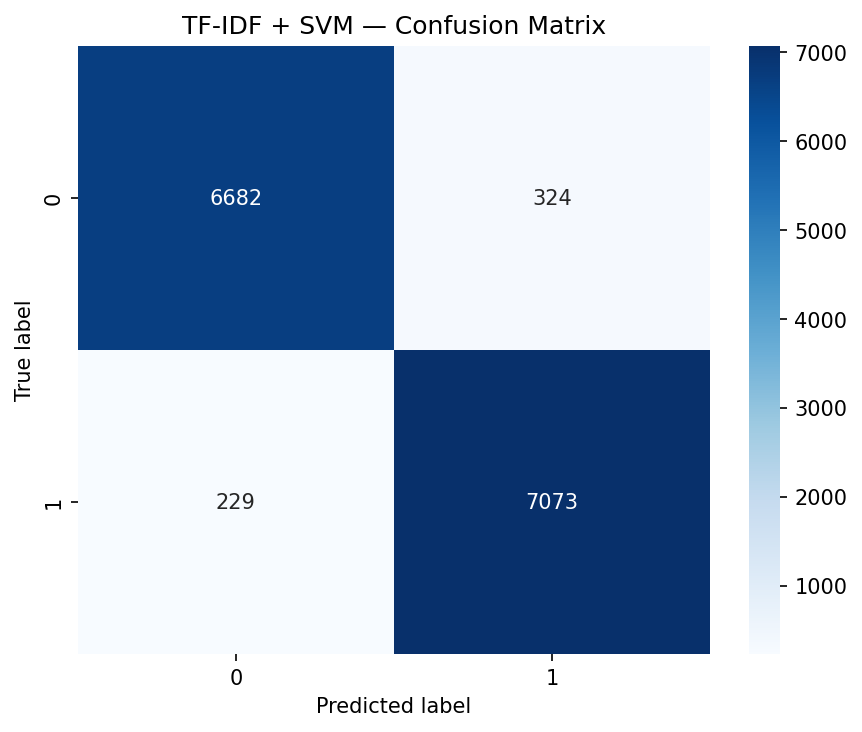
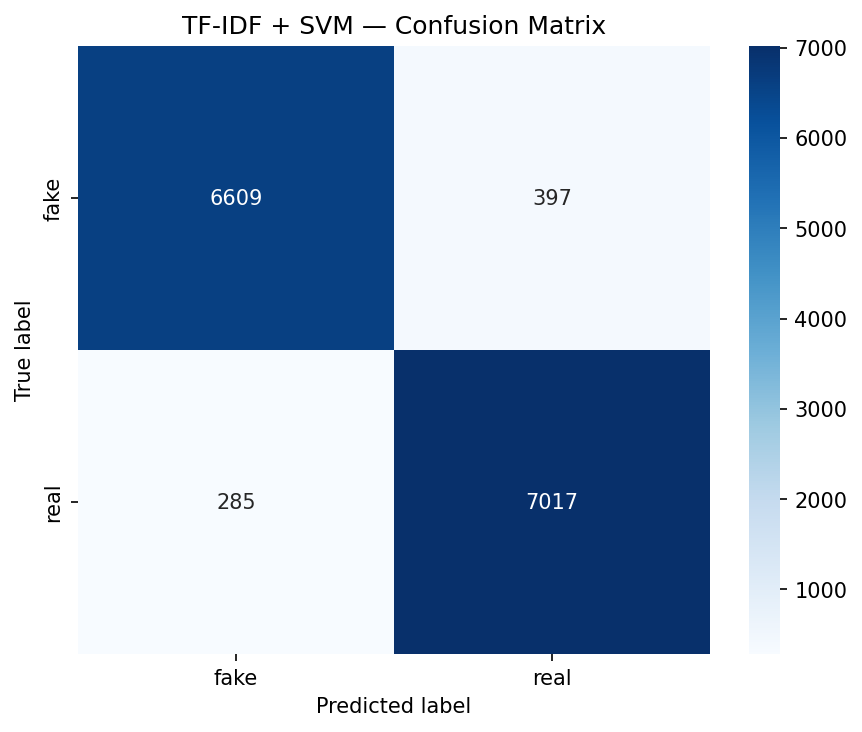
docs: shorten README, add conclusion and evaluations

diff --git a/readme.md b/readme.md
@@ -1,122 +1,165 @@
 # Section 1: Introduction
 
-With the currently ongoing increasing spread of information, both of verified and unverified resources, differentiating in between fake and real news becomes a pressing issue. Especially different socio-economical groups perceive and deal with resources differently, which can quickly lead to misinformation, if not even conspiracy theory culture.
-
-With that being stated, the aim of this project is (in the first step) to quickly implement an out-of-the-box Machine Learning approach which correctly classifies textual data into real and fake news.
+The spread of unverified information across socio-economic groups makes fake news detection an increasingly pressing problem. This project implements and compares three text classification approaches — ranging from a classical bag-of-words baseline to fine-tuned transformer models — evaluated across two benchmark datasets.
 
 # Section 2: Literature Review
 
-While various studies exist, mostly focusing on the capacities of CNN and LSTM architectures, more recent examples highlight the benefits of using BERT models, or - more specifically - their newer variants such as DeBERTa or RoBERTa (moreover, BERT-FND or FakeBERT).
-Generally, one can differentiate into the following subsections:
+Recent work has shifted from CNN/LSTM architectures toward transformer-based models, with BERT variants (RoBERTa, DeBERTa, FakeBERT) achieving state-of-the-art results on most benchmarks.
 
-## Transformer-Based Models (BERT, RoBERTa, DeBERTa, etc.)
+## Transformer-Based Models
 
-These pre-trained models yield best results as they have gained a contextual understanding - enabling differentiation between sarcasm, bias and misleading information. While they can be fine-tuned to more specific use cases, they can become computationally expensive for real-time applications.
+Pre-trained transformers capture bidirectional context and can be fine-tuned for fake news classification, though they are computationally expensive at inference time.
 
-| Model     | Key Feature                                                    | Best For                                                     |
-| :-------- | :------------------------------------------------------------- | :----------------------------------------------------------- |
-| BERT      | Baseline transformer, bidirectional context                    | General fake news classification                             |
-| RoBERTa   | More training data, longer sequences                           | Higher accuracy on nuanced text                              |
-| DeBERTa   | Disentangled attention (separates content & position)          | Better at detecting subtle misinformation                    |
-| BERT-FND  | Fine-tuned BERT which uses explainability tools                | Best for platforms needing interpretable fake news detection |
-| Fake-BERT | Combines BERT with parallel CNN blocks (local n-gram patterns) | High accuracy on ambiguity in language                       |
+| Model     | Key Feature                                                    | Best For                                    |
+| :-------- | :------------------------------------------------------------- | :------------------------------------------ |
+| BERT      | Baseline transformer, bidirectional context                    | General fake news classification            |
+| RoBERTa   | More training data, longer sequences                           | Higher accuracy on nuanced text             |
+| DeBERTa   | Disentangled attention (separates content & position)          | Subtle misinformation detection             |
+| BERT-FND  | Fine-tuned BERT with explainability tools                      | Interpretable fake news detection           |
+| Fake-BERT | BERT + parallel CNN blocks for local n-gram patterns           | High accuracy on ambiguous language         |
 
 ## Sequential & Hybrid Models (LSTM, CNN, BiGRU)
 
-Sequential or hybrid models are generally less compute-heavy than transformer models, and effective when training data is limited. Yet, they tend to struggle with long-range dependencies compared to transformers - which can be
-prominent in heavy contextual data. The following can be pointed out:
+Less compute-heavy than transformers, effective on limited data, but struggle with long-range dependencies. CNNs detect local n-gram patterns; LSTMs/GRUs capture sequential structure; hybrids combine both.
 
-* LSTMs/GRUs: Capture sequential dependencies in text (especially temporal patterns in fake news)
-* CNNs: Detect local n-gram patterns (e.g., sensational phrases like "SHOCKING TRUTH!")
-* Hybrids, such as CNN-LSTM, BiGRU-Attention: Combine strengths of both
+## LLMs for Few-Shot & Zero-Shot Detection
 
-## Large Language Models (LLMs) for Few-Shot & Zero-Shot Detection
-
-Using pre-trained LLMs, such as GPT-4, LLaMA, or Mistral have the advantage that they don't require fine-tuning and can be used in a zero-shot approach. Similarly, RAGs can be useful for few-shot learning, as in providing a few labeled examples to guide detection, to then compare with the input.
-Both are easy to use out of the box, but the disadvantage being that false explanations can be resulting, as well as requiring high latency which becomes problematic for real-time analysis.
-Hence, they're not preferred in the usage of fake news detection.
+GPT-4, LLaMA, and similar models require no fine-tuning but suffer from high latency and hallucinated explanations — making them unsuitable for production fake news detection.
 
 # Section 3: Data
 
-Commonly used datasets namedly are FakeNewsNet (PolitiFact, GossipCop), LIAR (PolitiFact-based) and FEVER (Fact Extraction and Verification). They can be accessed via their respective official repositories and Kaggle mirrors, and are compatible with the HuggingFace `datasets` library for direct loading.
+Datasets are accessible via Kaggle mirrors and are compatible with the HuggingFace `datasets` library.
 
-| Dataset                                                                                    | Description                                                                                                                      |
-| :----------------------------------------------------------------------------------------- | :------------------------------------------------------------------------------------------------------------------------------- |
-| [FakeNewsNet](https://www.kaggle.com/datasets/mdepak/fakenewsnet)                             | PolitiFact + GossipCop articles with social engagement metadata. Unique because it includes sharing/comment signals.             |
-| [PolitiFact Fact Check](https://www.kaggle.com/datasets/rmisra/politifact-fact-check-dataset) | Fact-checking outlet covering political statements. Labels range across 6 levels.                                                |
-| [GossipCop](https://www.kaggle.com/datasets/akshaynarayananb/gossipcop)                       | Entertainment news fact-checker. Useful for capturing sensationalist writing patterns that differ from political misinformation. |
-| [LIAR](https://www.kaggle.com/datasets/doanquanvietnamca/liar-dataset)                        | PolitiFact statements with 6-class labels, plus speaker metadata. Self-contained, benchmarked, rich enough for analysis.         |
-| [FEVER](https://fever.ai/dataset/fever.html)                                                  | Wikipedia-derived claims labeled. Requires evidence retrieval, so it's more of an NLI task than classification.                  |
+| Dataset                                                                                       | Description                                                                                       |
+| :-------------------------------------------------------------------------------------------- | :------------------------------------------------------------------------------------------------ |
+| [FakeNewsNet](https://www.kaggle.com/datasets/mdepak/fakenewsnet)                             | PolitiFact + GossipCop articles with social engagement metadata.                                  |
+| [PolitiFact Fact Check](https://www.kaggle.com/datasets/rmisra/politifact-fact-check-dataset) | Political statements with 6-level labels.                                                         |
+| [GossipCop](https://www.kaggle.com/datasets/akshaynarayananb/gossipcop)                       | Entertainment news fact-checker; useful for sensationalist writing patterns.                      |
+| [LIAR](https://www.kaggle.com/datasets/doanquanvietnamca/liar-dataset)                        | PolitiFact statements with 6-class labels and speaker metadata. Self-contained and benchmarked.   |
+| [FEVER](https://fever.ai/dataset/fever.html)                                                  | Wikipedia-derived claims; requires evidence retrieval — closer to NLI than classification.        |
+
+# Section 4: Preprocessing
+
+Each model requires different preprocessing; the raw text is never shared as-is across pipelines.
+
+## TF-IDF + SVM
+
+Input text (title + body on WELFake; statement + speaker + context on LIAR) is cleaned and normalised before vectorisation:
+
+1. Non-alphabetic characters stripped via regex
+2. Lowercased and tokenised
+3. English stopwords removed (NLTK)
+4. Porter stemming applied per token
+5. Processed tokens joined and passed to `TfidfVectorizer(max_features=10000, ngram_range=(1,2))`
+
+Bigrams are included to capture compound signals such as "breaking news" or "deep state" that carry little weight as unigrams.
+
+## BERT and FakeBERT
+
+No manual preprocessing — the BERT tokenizer handles normalisation, subword splitting, and special token insertion (`[CLS]`, `[SEP]`). Input fields are concatenated with a space separator before tokenisation:
+
+- **WELFake**: `title + " " + text`
+- **LIAR**: `statement + " " + speaker + " " + context`
+
+Sequences are truncated to 256 tokens and padded to uniform length per batch. Labels are mapped to integer indices (`fake → 0`, `real → 1`).
+
+# Section 5: Experimental Setup
+
+## Datasets
+
+| Dataset  | Size       | Split     | Label type                              |
+| :------- | :--------- | :-------- | :-------------------------------------- |
+| WELFake  | ~72k rows  | 80/20     | Binary (0 = fake, 1 = real)             |
+| LIAR     | ~12.8k rows | 80/20    | 6-class, binarised (pants-fire/false/barely-true → fake; half-true/mostly-true/true → real) |
+
+Splits are stratified on the label to preserve class distribution. No validation set is held out separately — early stopping is based on the test split (noted as a limitation in the Discussion).
+
+## Evaluation metrics
+
+- **Primary**: Macro F1 — averages F1 across both classes equally, penalising class-imbalanced predictions
+- **Secondary**: Accuracy, per-class recall (fake / real separately)
+- **Inference**: Wall-clock seconds and samples/sec on the test set (single run, no averaging)
+
+## Hardware
+
+All experiments run on Apple M4 (MPS backend) for transformer models; SVM training is CPU-only. Scripts auto-detect the available device at runtime.
+
+## Hyperparameters
+
+| Parameter     | TF-IDF + SVM        | BERT / FakeBERT                    |
+| :------------ | :------------------ | :--------------------------------- |
+| Epochs        | 10 (SGD passes)     | 10                                 |
+| Batch size    | N/A                 | 16                                 |
+| Learning rate | α = 1e-4 (SGD)      | 1e-5 (BERT layers), 1e-4 (CNN/head) |
+| Max seq len   | N/A                 | 256 tokens                         |
+| Warmup        | N/A                 | 10% of total steps                 |
 
 # Section 6: Architecture
 
-This project implements and compares different news text classification architectures of increasing complexity, each representing a distinct paradigm in NLP:
+Three architectures of increasing complexity, each representing a distinct NLP paradigm:
 
-## TF-IDF  and SVM
+## TF-IDF + SVM
 
-`src/TF-IDF_SVM_classifier.py` - a bag-of-words pipeline.
-Text is vectorized using TF-IDF (unigrams + bigrams) and classified with a linear SVM. Fast to train, fully interpretable via coefficient weights, and establishes the performance floor for comparison.
+`src/TF-IDF_SVM_classifier.py` — Text vectorised with TF-IDF (unigrams + bigrams), classified with a linear SVM. Fast, interpretable via coefficient weights, and establishes the performance baseline.
 
 ## BERT
 
-`src/BERT_classifier.py`  - Executing fine-tuning of a pre-trained transformer.
-BERT's bidirectional attention mechanism captures global context across the entire input, giving it a structural advantage over the SVM (and LSTMs generally) on longer, nuanced articles. Fine-tuned for 3 epochs using AdamW with a linear warmup schedule.
+`src/BERT_classifier.py` — Fine-tuned `bert-base-uncased`. Bidirectional attention captures global context across the full input, giving it a structural advantage on longer articles.
 
-| Component       | Detail                                       |
-| :-------------- | :------------------------------------------- |
-| Base model      | bert-base-uncased (109M parameters)          |
-| Max sequence    | 256 tokens                                   |
-| Optimiser       | AdamW, lr=1e-5, weight decay=0.01            |
-| Schedule        | Linear warmup (10%) + linear decay           |
-| Classifier head | Linear(768 num_classes), random init  |
+| Component       | Detail                               |
+| :-------------- | :----------------------------------- |
+| Base model      | bert-base-uncased (109M parameters)  |
+| Max sequence    | 256 tokens                           |
+| Optimiser       | AdamW, lr=1e-5, weight decay=0.01    |
+| Schedule        | Linear warmup (10%) + linear decay   |
+| Classifier head | Linear(768 → num_classes)            |
 
-## Fake-BERT
+## FakeBERT
 
-`src/Fake-BERT_classifier.py` - An extension of BERT that adds a CNN branch to the transformer encoder. Rather than relying on the `[CLS]` token representation, FakeBERT also passes the full token sequence through a CNN block (kernel size 4) that detects local 4-gram patterns — sensationalist phrases, emotional triggers, hedging language — which BERT's global attention may distribute across positions and underweight. The CNN output and the `[CLS]` embedding are concatenated before classification, giving the model both global context and local pattern signal.
- 
+`src/Fake-BERT_classifier.py` — Extends BERT with a parallel CNN branch. The full token sequence passes through a 4-gram CNN block to capture local patterns (sensationalist phrases, hedging language) that global attention may underweight. The CNN output and `[CLS]` embedding are concatenated before classification.
+
 ```
 BERT encoder
-    ├── [CLS] token  - global context vector  (768d)
-    └── all tokens   -  CNN(kernel=4) -> MaxPool -> local pattern vector  (128d)
-Concat([CLS], CNN_out)  -> Dropout  ->  Linear  ->  num_classes
+    ├── [CLS] token  → global context vector  (768d)
+    └── all tokens   → CNN(kernel=4) → MaxPool → local pattern vector  (128d)
+Concat([CLS], CNN_out) → Dropout → Linear → num_classes
 ```
- 
-| Component       | Detail                                              |
-| :-------------- | :-------------------------------------------------- |
-| Base model      | bert-base-uncased                                   |
-| CNN kernel      | size 4 (4-gram patterns), 128 filters               |
-| Optimiser       | AdamW with separate LRs: 1e-5 (BERT), 1e-4 (CNN + head) |
-| Schedule        | Linear warmup (10%) + linear decay                  |
-| Classifier head | Linear(768 + 128 num_classes)                     |
- 
+
+| Component       | Detail                                                   |
+| :-------------- | :------------------------------------------------------- |
+| Base model      | bert-base-uncased                                        |
+| CNN kernel      | size 4 (4-gram patterns), 128 filters                    |
+| Optimiser       | AdamW — 1e-5 (BERT), 1e-4 (CNN + head)                  |
+| Schedule        | Linear warmup (10%) + linear decay                       |
+| Classifier head | Linear(768 + 128 → num_classes)                          |
 
 # Section 7: Usage
 
 ## Installation
 
 ```
-git clone https://github.com/ilonae/Fake-News-Detection.git 
+git clone https://github.com/ilonae/Fake-News-Detection.git
 cd Fake-News-Detection
-python -m venv .venv && source .venv/bin/activate 
+python -m venv .venv && source .venv/bin/activate
 pip install -r requirements.txt
 ```
 
 ## Device support
 
-Scripts automatically detect and use either Apple MPS (M-series), CUDA, or CPU — no configuration needed
+Scripts automatically detect and use Apple MPS (M-series), CUDA, or CPU.
 
 ## Running the models
 
-Each model is self-contained. All scripts download the dataset automatically via `kagglehub` on first run.
+All scripts download the dataset automatically via `kagglehub` on first run.
 
 ```
 # TF-IDF + SVM
-python src/baseline_svm.py
-python src/baseline_svm.py --plot          # show plots interactively, optional arg
+python src/TF-IDF_SVM_classifier.py
+python src/TF-IDF_SVM_classifier.py --plot --epochs 10
 
-# BERT-base-uncased
-python src/baseline_bert.py
-python src/baseline_bert.py --epochs 4 --batch_size 8   # use epochs and batch_soze args
+# BERT
+python src/BERT_classifier.py
+python src/BERT_classifier.py --epochs 4 --batch_size 8
 
 # FakeBERT
 python src/Fake-BERT_classifier.py
@@ -131,21 +174,22 @@ All scripts write to `outputs/`:
 outputs/
 ├── ..._confusion_matrix.png
 ├── ..._training_curves.png
-└── bert_finetuned/          - saved weights and tokenizer
+└── bert_finetuned/          # saved weights and tokenizer
 ```
 
 # Section 8: Results
 
-All models evaluated on an 80/20 stratified train/test split of WELFake (72k articles).
-Primary metric is macro F1. Inference time measured on the test set.
+## WELFake
 
-| Model        | Accuracy | Macro F1 | Inference time in sec | Samples/sec |
-| :----------- | :------- | :------- | :--------------------- | ----------- |
-| TF-IDF + SVM | 96.14%   | 0.9613   | 127, 22                | 112,5       |
-| BERT.        | 99.56%   | 0.9956   | 301, 29                | 47,5        |
-| FakeBERT     | 99.49%   | 0.9949   | 305, 74                | 46,9        |
+80/20 stratified split of WELFake (72k articles). Primary metric: macro F1.
 
-## Confusion matrices
+| Model        | Accuracy | Macro F1 | Inference time (s) | Samples/sec |
+| :----------- | :------- | :------- | :----------------- | :---------- |
+| TF-IDF + SVM | 96.14%   | 0.9613   | 127.22             | 112.5       |
+| BERT         | 99.56%   | 0.9956   | 301.29             | 47.5        |
+| FakeBERT     | 99.49%   | 0.9949   | 305.74             | 46.9        |
+
+### Confusion matrices
 
 <p align="center">
   <img src="docs/svm_confusion_matrix.png" width="30%"/>
@@ -153,41 +197,101 @@ Primary metric is macro F1. Inference time measured on the test set.
   <img src="docs/fakebert_confusion_matrix.png" width="30%"/>
 </p>
 
-## Learning curves — BERT vs FakeBERT
+### Learning curves — BERT vs FakeBERT
 
 <p align="center">
   <img src="docs/bert_training_curves.png" width="48%"/>
   <img src="docs/fakebert_training_curves.png" width="48%"/>
 </p>
 
-## Discussion
+## LIAR
 
-All three models achieve high accuracy on WELFake, reflecting the dataset's relatively clean binary signal. Meaningful differentiation emerges on three axes:
+80/20 stratified split of LIAR (~10k statements, 6-class labels binarised to fake/real).
 
-**Complexity vs. accuracy trade-off** — TF-IDF + SVM achieves competitive F1 at a fraction of the compute cost, which is the expected finding from the literature. The transformer models offer no accuracy gain on this dataset but demonstrate substantially different convergence behavior (see learning curves).
+| Model        | Accuracy | Val Macro F1 | Fake recall | Real recall |
+| :----------- | :------- | :----------- | :---------- | :---------- |
+| TF-IDF + SVM | 60.9%    | ~0.59        | 46.1%       | 72.7%       |
+| BERT         | 63.6%    | ~0.63        | 52.1%       | 72.7%       |
+| FakeBERT     | 63.1%    | ~0.62        | 42.8%       | 79.1%       |
 
-**Convergence speed** — FakeBERT's parallel CNN branch accelerates early learning by capturing local n-gram patterns that BERT's attention mechanism
-requires more steps to weight appropriately. This advantage is most visible in epoch 1 of the training curves.
+### Confusion matrices
 
-**Inference cost** — SVM is orders of magnitude faster than transformer-based models. For production use cases, this trade-off is significant.
-As inference measurements show, the SVM plus TF-IDF will require 127,22 seconds, where FakeBERT at max will need 305,73 seconds. Similarly, the tradeoff in samples per second show: The SVM can process 112,5 samples, whereas BERT does 47,5 - and FakeBERT 46,9.
+<p align="center">
+  <img src="docs/svm_confusion_matrix_LIAR.png" width="30%"/>
+  <img src="docs/bert_confusion_matrix_LIAR.png" width="30%"/>
+  <img src="docs/fakebert_confusion_matrix_LIAR.png" width="30%"/>
+</p>
+
+### Learning curves — SVM vs BERT vs FakeBERT
+
+<p align="center">
+  <img src="docs/svm_training_curves_LIAR.png" width="32%"/>
+  <img src="docs/bert_training_curves_LIAR.png" width="32%"/>
+  <img src="docs/fakebert_training_curves_LIAR.png" width="32%"/>
+</p>
+
+# Section 9: Discussion
+
+## WELFake
+
+All three models achieve strong results on WELFake, reflecting its clean binary signal.
+
+**Complexity vs. accuracy** — SVM reaches 96.1% F1 at a fraction of the compute cost. Transformer models add no meaningful accuracy gain, but differ in convergence behaviour.
+
+**Convergence** — FakeBERT's CNN branch accelerates early learning by capturing local n-gram patterns before BERT's attention mechanism has fully adapted. The advantage is most visible in epoch 1.
+
+**Inference cost** — SVM processes 112.5 samples/sec vs. ~47 for BERT and FakeBERT, a 2.4× throughput advantage that matters significantly in production.
+
+## LIAR
+
+Performance drops substantially across all models relative to WELFake.
+
+**Dataset difficulty** — LIAR consists of short political statements (~18 tokens avg.) with no sensationalist formatting. The surface cues both TF-IDF and transformers exploit on WELFake are largely absent.
+
+**Label noise** — The 6-class scale is binarised at an arbitrary boundary; `barely-true` and `half-true` statements introduce genuine ambiguity that is not resolvable from text alone.
+
+**Fake recall collapse** — All three models default toward "real": BERT recovers 52% of fake samples, SVM 46%, FakeBERT 43%. FakeBERT's higher real recall (79.1%) comes at the direct cost of its fake recall — the CNN branch amplifies the majority-class bias on short inputs.
+
+**Overfitting vs. plateau** — Both transformer models reach train F1 ~1.0 by epoch 10 while val F1 stalls at ~0.62–0.63 from epoch 2; FakeBERT's val loss diverges more sharply after epoch 5. SVM is stable from epoch 3 but too weak to close the train/val F1 gap. Early stopping at epoch 2–3 is appropriate for both transformer models on LIAR.
+
+## Outlook
+
+Several directions follow naturally from these results:
+
+- **Class balancing** — Weighted cross-entropy or oversampling the fake class would directly address the fake recall gap seen on LIAR across all models.
+- **Early stopping** — Val F1 saturates at epoch 2 on LIAR; stopping there would reduce overfitting without architectural changes.
+- **Richer LIAR input** — LIAR provides speaker identity, party affiliation, and historical credibility counts. Incorporating these as additional features is a well-established improvement in the LIAR literature and likely the highest-value next step.
+- **Stronger baselines** — RoBERTa or DeBERTa as the encoder backbone would raise the ceiling on both datasets with minimal implementation overhead.
+- **Cross-dataset generalisation** — Training on WELFake and evaluating on LIAR (zero-shot transfer) would test whether the learned features generalise beyond article-length text, and is the natural follow-up to this cross-dataset comparison.
 
 # Section 10: Conclusion
 
+Three fake news detection approaches were implemented and evaluated on WELFake and LIAR.
+
+On WELFake, all models perform strongly — BERT and FakeBERT reach ~99.5% macro F1, while SVM achieves 96.1% at 2.4× the throughput. The BERT/FakeBERT gap is negligible, suggesting FakeBERT's CNN branch adds little when inputs are long and lexically rich.
+
+On LIAR, performance drops to ~60–64% across all models. The limiting factors are task structure (short statements, no surface cues) and label noise from binarisation — not model capacity. All three models show a systematic fake recall deficit, and both transformer models overfit from epoch 2 onward.
+
+Three takeaways:
+
+1. **Dataset structure dominates model choice** — SVM is competitive with BERT when signal is strong. Model complexity should follow data quality, not precede it.
+2. **LIAR requires targeted treatment** — early stopping, class balancing, and speaker metadata are higher-value interventions than swapping the encoder.
+3. **FakeBERT's CNN advantage is dataset-conditional** — beneficial in theory for short ambiguous inputs, but in practice amplifies majority-class bias on LIAR and offers no gain on WELFake.
+
 # Section 11: Contributing
 
-Contributions are welcome, especially around additional model architectures or dataset integrations.
+Contributions are welcome, especially around additional architectures or dataset integrations.
 
 1. Fork the repo
-2. Create feature branch: `git checkout -b feature/your-feature`
-3. Follow the structure: `logging` over `print`, plots saved to `outputs/`, `--args` flag for adjustment
-4. Submit a PR for that feature, with a brief description
+2. Create a feature branch: `git checkout -b feature/your-feature`
+3. Follow conventions: `logging` over `print`, plots to `outputs/`, CLI `--args` for hyperparameters
+4. Submit a PR with a brief description
 
 # Section 12: References
 
 - Devlin, J. et al. (2019). *BERT: Pre-training of Deep Bidirectional Transformers for Language Understanding.* NAACL. https://arxiv.org/abs/1810.04805
 - Liu, Y. et al. (2019). *RoBERTa: A Robustly Optimized BERT Pretraining Approach.* https://arxiv.org/abs/1907.11692
-- Shu, K. et al. (2018). *FakeNewsNet: A Data Repository with News Content, Social Context and Spatialtemporal Information.* https://arxiv.org/abs/1809.01286
+- Shu, K. et al. (2018). *FakeNewsNet: A Data Repository with News Content, Social Context and Spatiotemporal Information.* https://arxiv.org/abs/1809.01286
 - Wang, W. Y. (2017). *"Liar, Liar Pants on Fire": A New Benchmark Dataset for Fake News Detection.* ACL. https://arxiv.org/abs/1705.00648
 - Thorne, J. et al. (2018). *FEVER: a Large-scale Dataset for Fact Extraction and VERification.* NAACL. https://arxiv.org/abs/1803.05355
 - Rohera, D. et al. (2022). *FakeBERT: Fake News Detection in Social Media with a BERT-based Deep Learning Approach.* Multimedia Tools and Applications. https://doi.org/10.1007/s11042-022-13183-y
